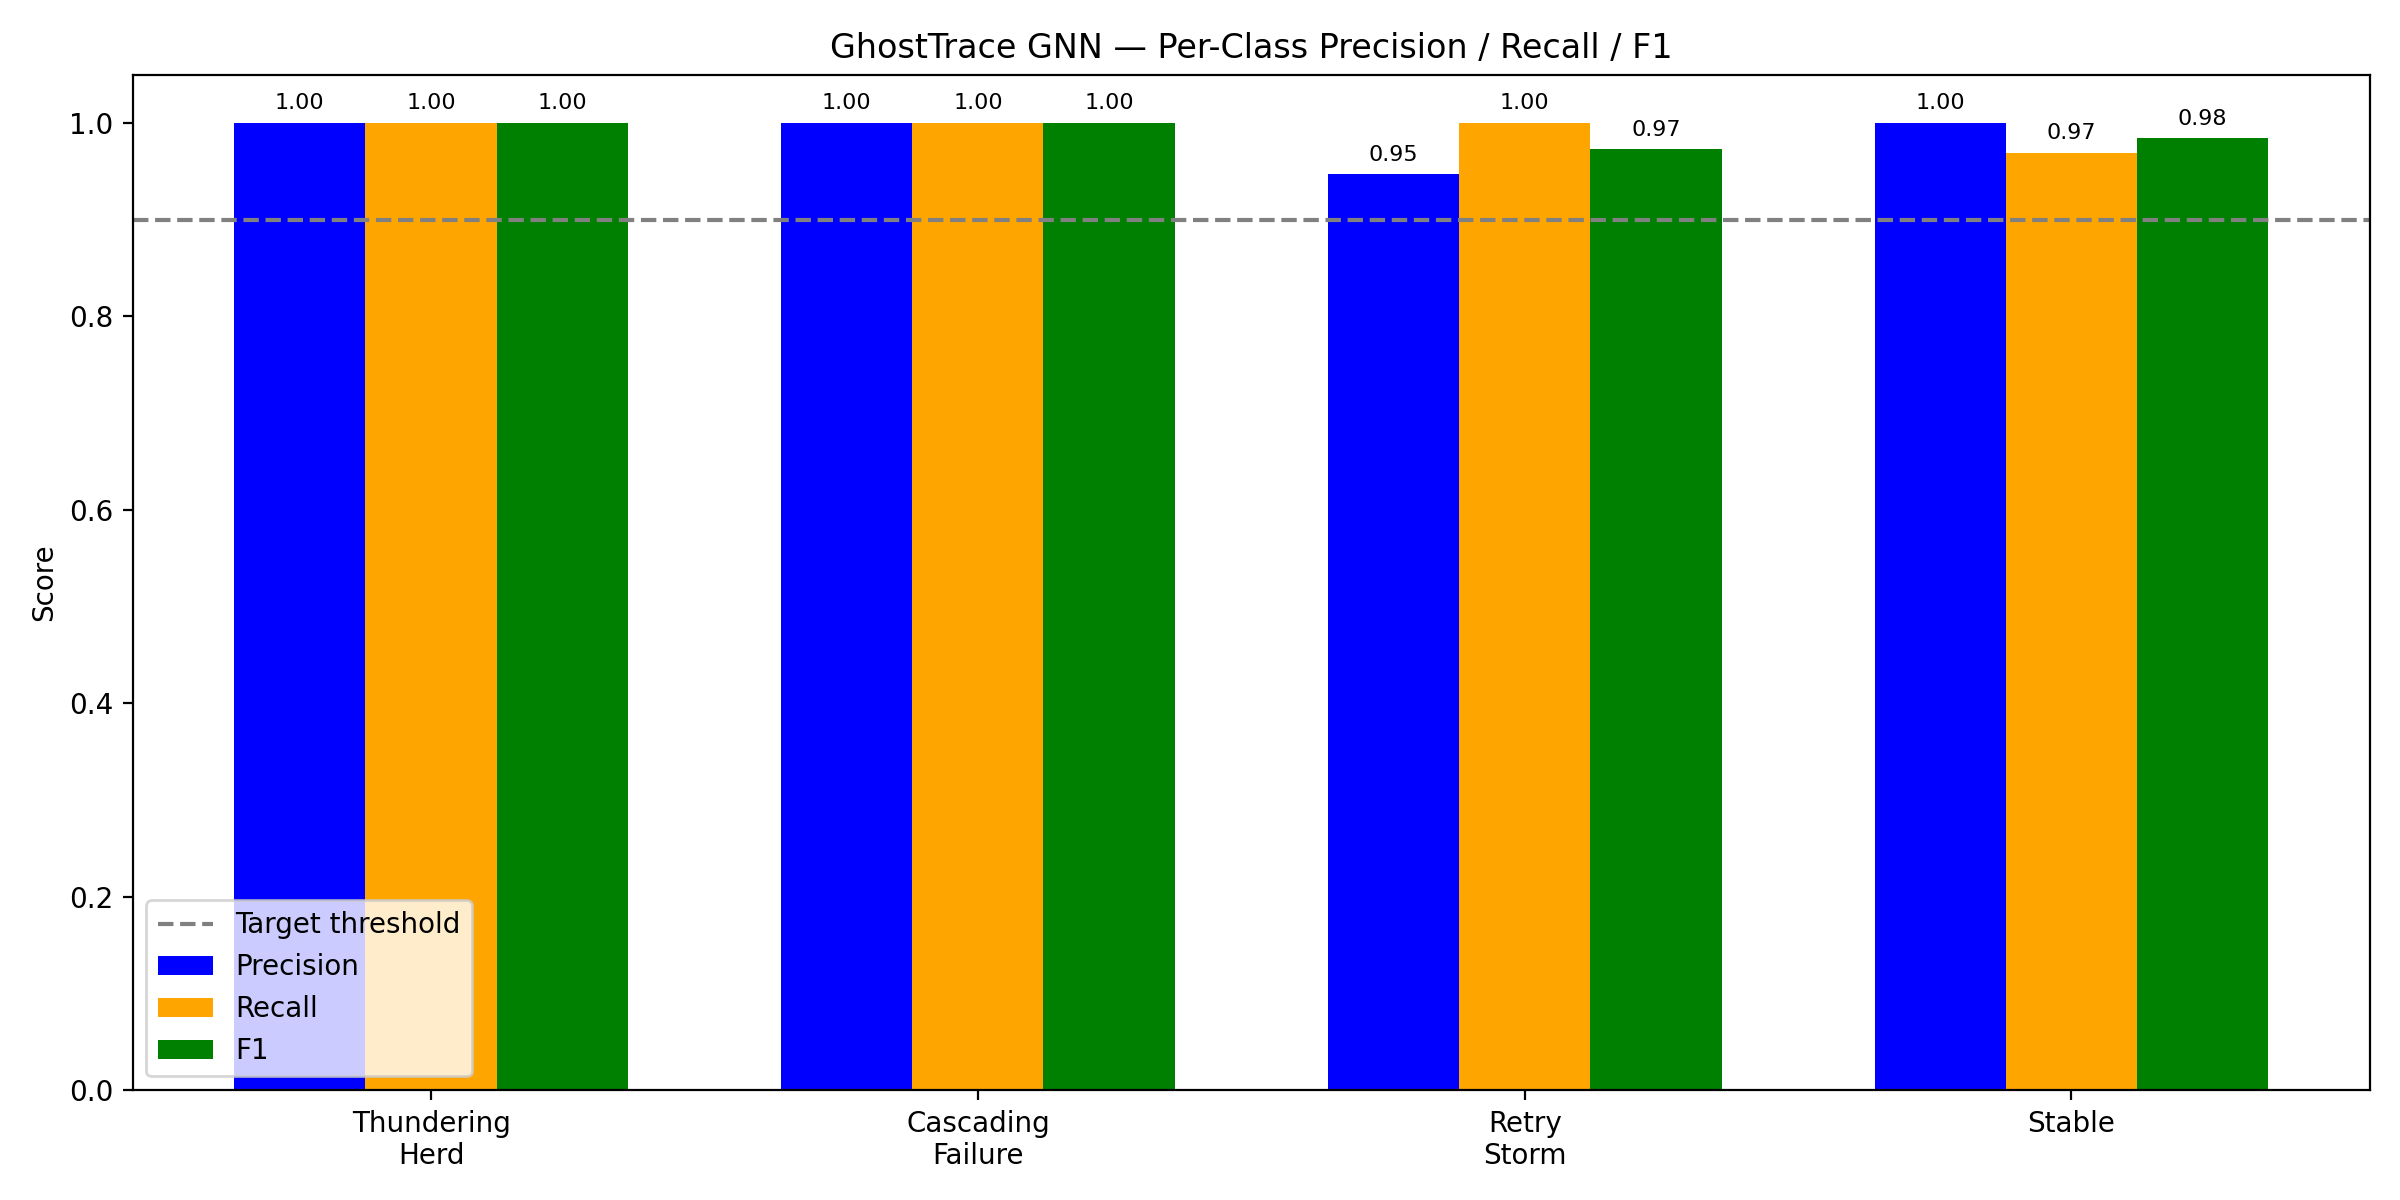
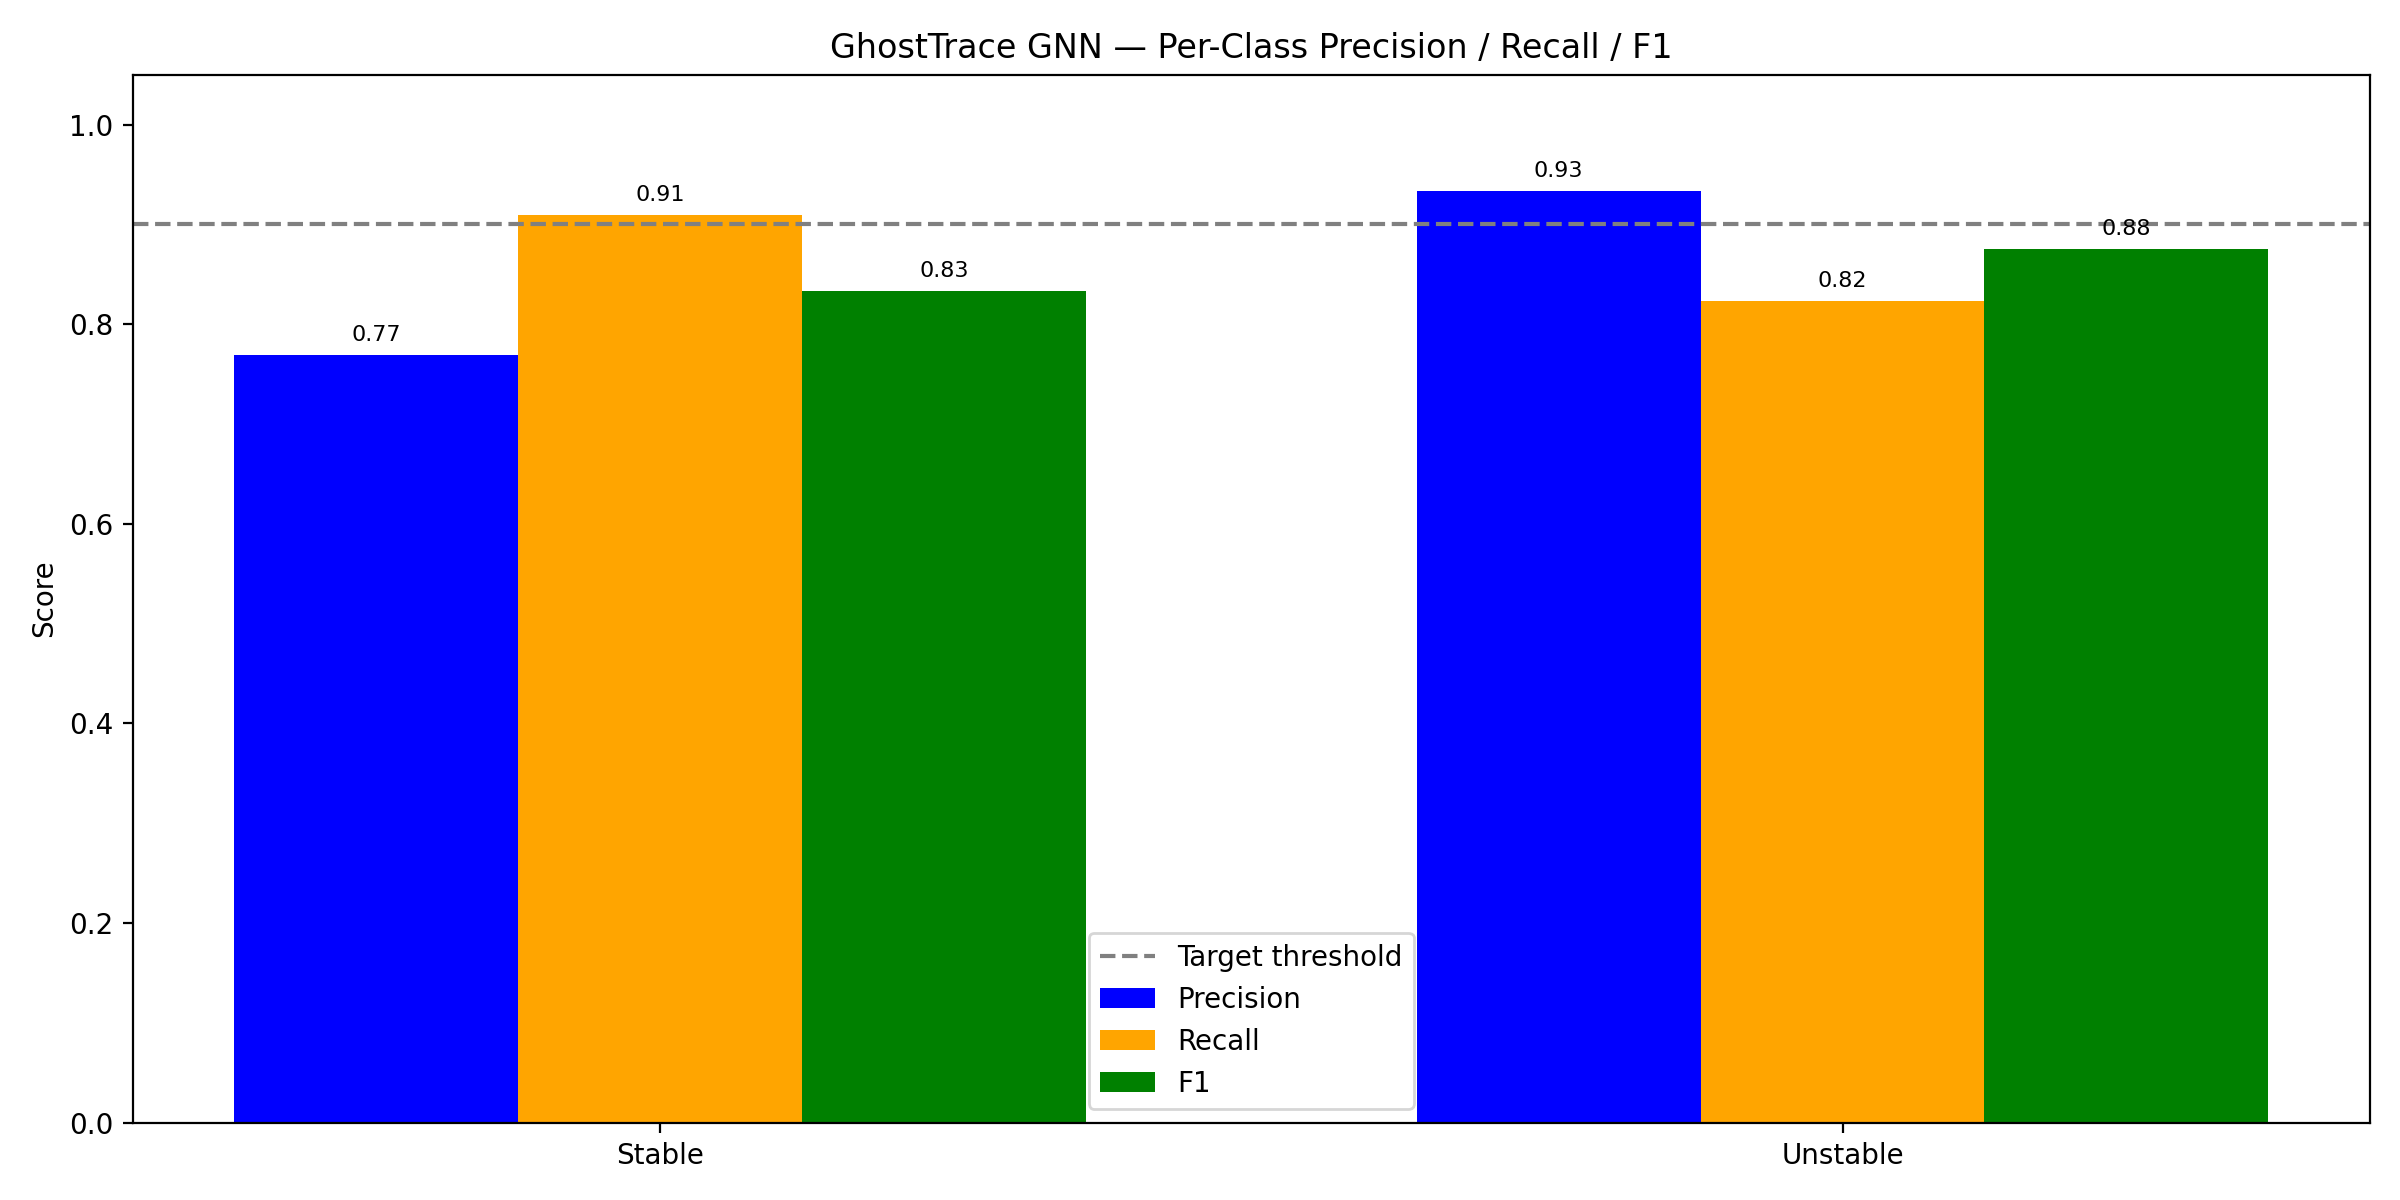
Fixed the model evaluater

diff --git a/ml-pipeline/ghosttrace/evaluate_model.py b/ml-pipeline/ghosttrace/evaluate_model.py
@@ -21,23 +21,22 @@ from sklearn.metrics import (
     roc_curve,
 )
 from torch import nn
+from torch.utils.data import Subset
 from torch_geometric.loader import DataLoader
 
-from graph_encoder import GhostTraceGNN, GraphDataset, LABEL_TO_INDEX
+from graph_encoder import GhostTraceGNN, GraphDataset, LABEL_TO_INDEX, source_aware_split
 
 
 ROOT_DIR = Path(__file__).resolve().parents[1]
-MODEL_PATH = Path(__file__).resolve().parent / "ghosttrace_gnn_best.pt"
+BEST_MODEL_PATH = Path(__file__).resolve().parent / "ghosttrace_gnn_best.pt"
+MODEL_OUTPUT_PATH = Path(__file__).resolve().parent / "ghosttrace_gnn.pt"
 TRAINING_HISTORY_PATH = Path(__file__).resolve().parent / "training_history.json"
 
-CLASSES = ["thundering_herd", "cascading_failure", "retry_storm", "stable"]
-DISPLAY_CLASSES = ["Thundering\nHerd", "Cascading\nFailure", "Retry\nStorm", "Stable"]
-CLASS_COLORS = {
-    "thundering_herd": "red",
-    "cascading_failure": "orange",
-    "retry_storm": "blue",
-    "stable": "green",
-}
+MODEL_LABELS_SORTED = [label for label, _ in sorted(LABEL_TO_INDEX.items(), key=lambda item: item[1])]
+CLASSES = MODEL_LABELS_SORTED
+DISPLAY_CLASSES = [class_name.replace("_", " ").title() for class_name in CLASSES]
+_BASE_COLORS = ["blue", "orange", "green", "red", "purple", "brown", "pink", "gray"]
+CLASS_COLORS = {class_name: _BASE_COLORS[idx % len(_BASE_COLORS)] for idx, class_name in enumerate(CLASSES)}
 
 MODEL_TO_EVAL_INDEX = {
     LABEL_TO_INDEX[class_name]: idx for idx, class_name in enumerate(CLASSES)
@@ -51,7 +50,7 @@ VAL_DATASET_LABELS: np.ndarray | None = None
 
 
 class EvalGraphClassifier(nn.Module):
-    def __init__(self, encoder: GhostTraceGNN, num_classes: int = 4) -> None:
+    def __init__(self, encoder: GhostTraceGNN, num_classes: int = len(CLASSES)) -> None:
         super().__init__()
         self.encoder = encoder
         self.head = nn.Sequential(
@@ -83,6 +82,38 @@ def _safe_avg_precision(y_true_bin: np.ndarray, y_score: np.ndarray) -> float:
     return float(average_precision_score(y_true_bin, y_score))
 
 
+def _resolve_model_path() -> Path:
+    override = os.getenv("GHOSTTRACE_EVAL_MODEL", "").strip()
+    if override:
+        override_path = Path(override)
+        if not override_path.is_absolute():
+            override_path = (Path(__file__).resolve().parent / override_path).resolve()
+        if not override_path.exists():
+            raise FileNotFoundError(f"Model checkpoint not found: {override_path}")
+        return override_path
+
+    if not MODEL_OUTPUT_PATH.exists():
+        raise FileNotFoundError(f"Model checkpoint not found: {MODEL_OUTPUT_PATH}")
+    return MODEL_OUTPUT_PATH
+
+
+def _load_eval_model(model: EvalGraphClassifier, checkpoint: object) -> float | None:
+    if isinstance(checkpoint, dict):
+        if "state_dict" in checkpoint:
+            model.load_state_dict(checkpoint["state_dict"])
+            return None
+        if "encoder_state_dict" in checkpoint and "classifier_state_dict" in checkpoint:
+            model.encoder.load_state_dict(checkpoint["encoder_state_dict"])
+            model.head.load_state_dict(checkpoint["classifier_state_dict"])
+            threshold = checkpoint.get("decision_threshold")
+            if threshold is None:
+                return None
+            return float(threshold)
+
+    model.load_state_dict(checkpoint)
+    return None
+
+
 def load_model_and_data() -> Tuple[np.ndarray, np.ndarray, np.ndarray]:
     global FULL_DATASET_LABELS, VAL_DATASET_LABELS
 
@@ -99,25 +130,27 @@ def load_model_and_data() -> Tuple[np.ndarray, np.ndarray, np.ndarray]:
     full_labels_model_idx = np.array([int(dataset[i].y.item()) for i in range(len(dataset))], dtype=np.int64)
     FULL_DATASET_LABELS = np.array([MODEL_TO_EVAL_INDEX[idx] for idx in full_labels_model_idx], dtype=np.int64)
 
-    torch.manual_seed(42)
-    total = len(dataset)
-    train_size = int(0.8 * total)
-    val_size = total - train_size
-    _, val_dataset = torch.utils.data.random_split(dataset, [train_size, val_size])
+    train_indices, val_indices = source_aware_split(dataset)
+    if len(val_indices) < 5:
+        torch.manual_seed(42)
+        total = len(dataset)
+        train_size = int(0.8 * total)
+        val_size = total - train_size
+        _, val_dataset = torch.utils.data.random_split(dataset, [train_size, val_size])
+    else:
+        val_dataset = Subset(dataset, val_indices)
 
     val_loader = DataLoader(val_dataset, batch_size=32, shuffle=False)
 
     device = torch.device("cuda" if torch.cuda.is_available() else "cpu")
-    model = EvalGraphClassifier(GhostTraceGNN(), num_classes=4).to(device)
+    model = EvalGraphClassifier(GhostTraceGNN(), num_classes=len(CLASSES)).to(device)
 
-    if not MODEL_PATH.exists():
-        raise FileNotFoundError(f"Model checkpoint not found: {MODEL_PATH}")
-
-    checkpoint = torch.load(MODEL_PATH, map_location=device)
-    if isinstance(checkpoint, dict) and "state_dict" in checkpoint:
-        model.load_state_dict(checkpoint["state_dict"])
-    else:
-        model.load_state_dict(checkpoint)
+    model_path = _resolve_model_path()
+    checkpoint = torch.load(model_path, map_location=device)
+    decision_threshold = _load_eval_model(model, checkpoint)
+    print(f"Loaded model checkpoint: {model_path}")
+    if decision_threshold is not None:
+        print(f"Using decision threshold: {decision_threshold:.2f}")
 
     model.eval()
     y_true_model_idx = []
@@ -129,7 +162,10 @@ def load_model_and_data() -> Tuple[np.ndarray, np.ndarray, np.ndarray]:
             batch = batch.to(device)
             logits = model(batch)
             probabilities = torch.softmax(logits, dim=1)
-            predictions = torch.argmax(probabilities, dim=1)
+            if len(CLASSES) == 2 and decision_threshold is not None:
+                predictions = (probabilities[:, 1] >= decision_threshold).long()
+            else:
+                predictions = torch.argmax(probabilities, dim=1)
 
             y_true_model_idx.extend(batch.y.cpu().numpy().tolist())
             y_pred_model_idx.extend(predictions.cpu().numpy().tolist())
@@ -152,7 +188,7 @@ def load_model_and_data() -> Tuple[np.ndarray, np.ndarray, np.ndarray]:
 
 
 def plot_confusion_matrix(y_true: np.ndarray, y_pred: np.ndarray, save_path: str) -> None:
-    cm = confusion_matrix(y_true, y_pred, labels=list(range(4)))
+    cm = confusion_matrix(y_true, y_pred, labels=list(range(len(CLASSES))))
     row_sums = cm.sum(axis=1, keepdims=True)
     cm_pct = np.divide(cm, np.maximum(row_sums, 1), where=row_sums != 0)
 
@@ -181,7 +217,7 @@ def plot_confusion_matrix(y_true: np.ndarray, y_pred: np.ndarray, save_path: str
 
 
 def plot_roc_curves(y_true: np.ndarray, y_proba: np.ndarray, save_path: str) -> None:
-    y_true_one_hot = np.eye(4)[y_true]
+    y_true_one_hot = np.eye(len(CLASSES))[y_true]
 
     plt.figure(figsize=(10, 8))
 
@@ -206,7 +242,7 @@ def plot_roc_curves(y_true: np.ndarray, y_proba: np.ndarray, save_path: str) -> 
 
     if tprs:
         macro_tpr = np.mean(np.vstack(tprs), axis=0)
-        macro_auc = np.trapz(macro_tpr, macro_fpr)
+        macro_auc = np.trapezoid(macro_tpr, macro_fpr)
         plt.plot(
             macro_fpr,
             macro_tpr,
@@ -227,7 +263,7 @@ def plot_roc_curves(y_true: np.ndarray, y_proba: np.ndarray, save_path: str) -> 
 
 
 def plot_precision_recall_curves(y_true: np.ndarray, y_proba: np.ndarray, save_path: str) -> None:
-    y_true_one_hot = np.eye(4)[y_true]
+    y_true_one_hot = np.eye(len(CLASSES))[y_true]
 
     plt.figure(figsize=(10, 8))
 
@@ -274,7 +310,25 @@ def plot_training_history(save_path: str) -> None:
     history = json.loads(TRAINING_HISTORY_PATH.read_text(encoding="utf-8"))
     epochs = history.get("epochs", [])
     train_loss = history.get("train_loss", [])
-    val_accuracy = history.get("val_accuracy", [])
+    val_accuracy = history.get("val_accuracy")
+    if not val_accuracy:
+        val_accuracy = history.get("val_balanced_accuracy", [])
+
+    # Keep arrays aligned even when history schema changes across training versions.
+    if not epochs:
+        inferred_len = max(len(train_loss), len(val_accuracy))
+        epochs = list(range(1, inferred_len + 1))
+
+    if len(train_loss) != len(epochs):
+        min_len = min(len(train_loss), len(epochs))
+        train_loss = train_loss[:min_len]
+    if len(val_accuracy) != len(epochs):
+        min_len = min(len(val_accuracy), len(epochs))
+        val_accuracy = val_accuracy[:min_len]
+
+    if not epochs:
+        return
+
     best_epoch = int(history.get("best_epoch", 0))
     best_val_accuracy = float(history.get("best_val_accuracy", 0.0))
 
@@ -282,7 +336,8 @@ def plot_training_history(save_path: str) -> None:
     gs = gridspec.GridSpec(1, 2, figure=fig)
 
     ax1 = fig.add_subplot(gs[0, 0])
-    ax1.plot(epochs, train_loss, color="tab:blue", linewidth=2)
+    if train_loss:
+        ax1.plot(epochs[: len(train_loss)], train_loss, color="tab:blue", linewidth=2)
     ax1.set_title("Training Loss")
     ax1.set_xlabel("Epoch")
     ax1.set_ylabel("Loss")
@@ -290,11 +345,12 @@ def plot_training_history(save_path: str) -> None:
         ax1.axvline(best_epoch, color="gray", linestyle="--", linewidth=1.5)
 
     ax2 = fig.add_subplot(gs[0, 1])
-    ax2.plot(epochs, val_accuracy, color="tab:green", linewidth=2)
+    if val_accuracy:
+        ax2.plot(epochs[: len(val_accuracy)], val_accuracy, color="tab:green", linewidth=2)
     ax2.set_title("Validation Accuracy")
     ax2.set_xlabel("Epoch")
     ax2.set_ylabel("Accuracy")
-    if best_epoch > 0:
+    if best_epoch > 0 and val_accuracy:
         ax2.axvline(best_epoch, color="gray", linestyle="--", linewidth=1.5)
         ax2.annotate(
             f"best={best_val_accuracy:.4f}\nepoch={best_epoch}",
@@ -360,7 +416,7 @@ def plot_per_class_metrics(y_true: np.ndarray, y_pred: np.ndarray, save_path: st
     report = classification_report(
         y_true,
         y_pred,
-        labels=list(range(4)),
+        labels=list(range(len(CLASSES))),
         target_names=CLASSES,
         output_dict=True,
         zero_division=0,
@@ -405,7 +461,7 @@ def generate_metrics_report(y_true: np.ndarray, y_pred: np.ndarray, y_proba: np.
     report = classification_report(
         y_true,
         y_pred,
-        labels=list(range(4)),
+        labels=list(range(len(CLASSES))),
         target_names=CLASSES,
         output_dict=True,
         zero_division=0,
@@ -417,14 +473,8 @@ def generate_metrics_report(y_true: np.ndarray, y_pred: np.ndarray, y_proba: np.
     macro_f1 = float(report["macro avg"]["f1-score"])
     weighted_f1 = float(report["weighted avg"]["f1-score"])
 
-    try:
-        macro_roc_auc = float(
-            roc_auc_score(np.eye(4)[y_true], y_proba, multi_class="ovr", average="macro")
-        )
-    except ValueError:
-        macro_roc_auc = float("nan")
-
     per_class_ap_vals = []
+    per_class_auc_vals = []
     per_class = {}
     for idx, class_name in enumerate(CLASSES):
         y_true_bin = (y_true == idx).astype(int)
@@ -432,6 +482,8 @@ def generate_metrics_report(y_true: np.ndarray, y_pred: np.ndarray, y_proba: np.
 
         roc_auc = _safe_roc_auc(y_true_bin, y_score)
         avg_precision = _safe_avg_precision(y_true_bin, y_score)
+        if not np.isnan(roc_auc):
+            per_class_auc_vals.append(roc_auc)
         if not np.isnan(avg_precision):
             per_class_ap_vals.append(avg_precision)
 
@@ -444,9 +496,10 @@ def generate_metrics_report(y_true: np.ndarray, y_pred: np.ndarray, y_proba: np.
             "avg_precision": avg_precision,
         }
 
+    macro_roc_auc = float(np.mean(per_class_auc_vals)) if per_class_auc_vals else float("nan")
     macro_avg_precision = float(np.mean(per_class_ap_vals)) if per_class_ap_vals else float("nan")
 
-    cm = confusion_matrix(y_true, y_pred, labels=list(range(4))).astype(int).tolist()
+    cm = confusion_matrix(y_true, y_pred, labels=list(range(len(CLASSES)))).astype(int).tolist()
 
     best_class = max(CLASSES, key=lambda c: per_class[c]["f1"])
     worst_class = min(CLASSES, key=lambda c: per_class[c]["f1"])
@@ -456,7 +509,7 @@ def generate_metrics_report(y_true: np.ndarray, y_pred: np.ndarray, y_proba: np.
     return {
         "model": "GhostTrace GATv2 (2-layer, 2-head attention)",
         "dataset_size": int(len(y_true)),
-        "num_classes": 4,
+        "num_classes": len(CLASSES),
         "classes": CLASSES,
         "overall": {
             "accuracy": accuracy,
@@ -472,7 +525,10 @@ def generate_metrics_report(y_true: np.ndarray, y_pred: np.ndarray, y_proba: np.
         "research_summary": {
             "main_result": f"The GhostTrace GNN achieved {accuracy:.1%} accuracy on the held-out validation set.",
             "roc_statement": f"Macro-average AUC-ROC of {macro_roc_auc:.3f} indicates robust discriminative performance across failure modes.",
-            "baseline_comparison": f"Outperforms random baseline (25%) by {accuracy - 0.25:.1%} absolute accuracy.",
+            "baseline_comparison": (
+                f"Outperforms random baseline ({1.0 / len(CLASSES):.0%}) "
+                f"by {accuracy - (1.0 / len(CLASSES)):.1%} absolute accuracy."
+            ),
             "per_class_summary": (
                 f"Best class: {best_class} ({best_f1:.1%} F1). "
                 f"Most challenging: {worst_class} ({worst_f1:.1%} F1)."
